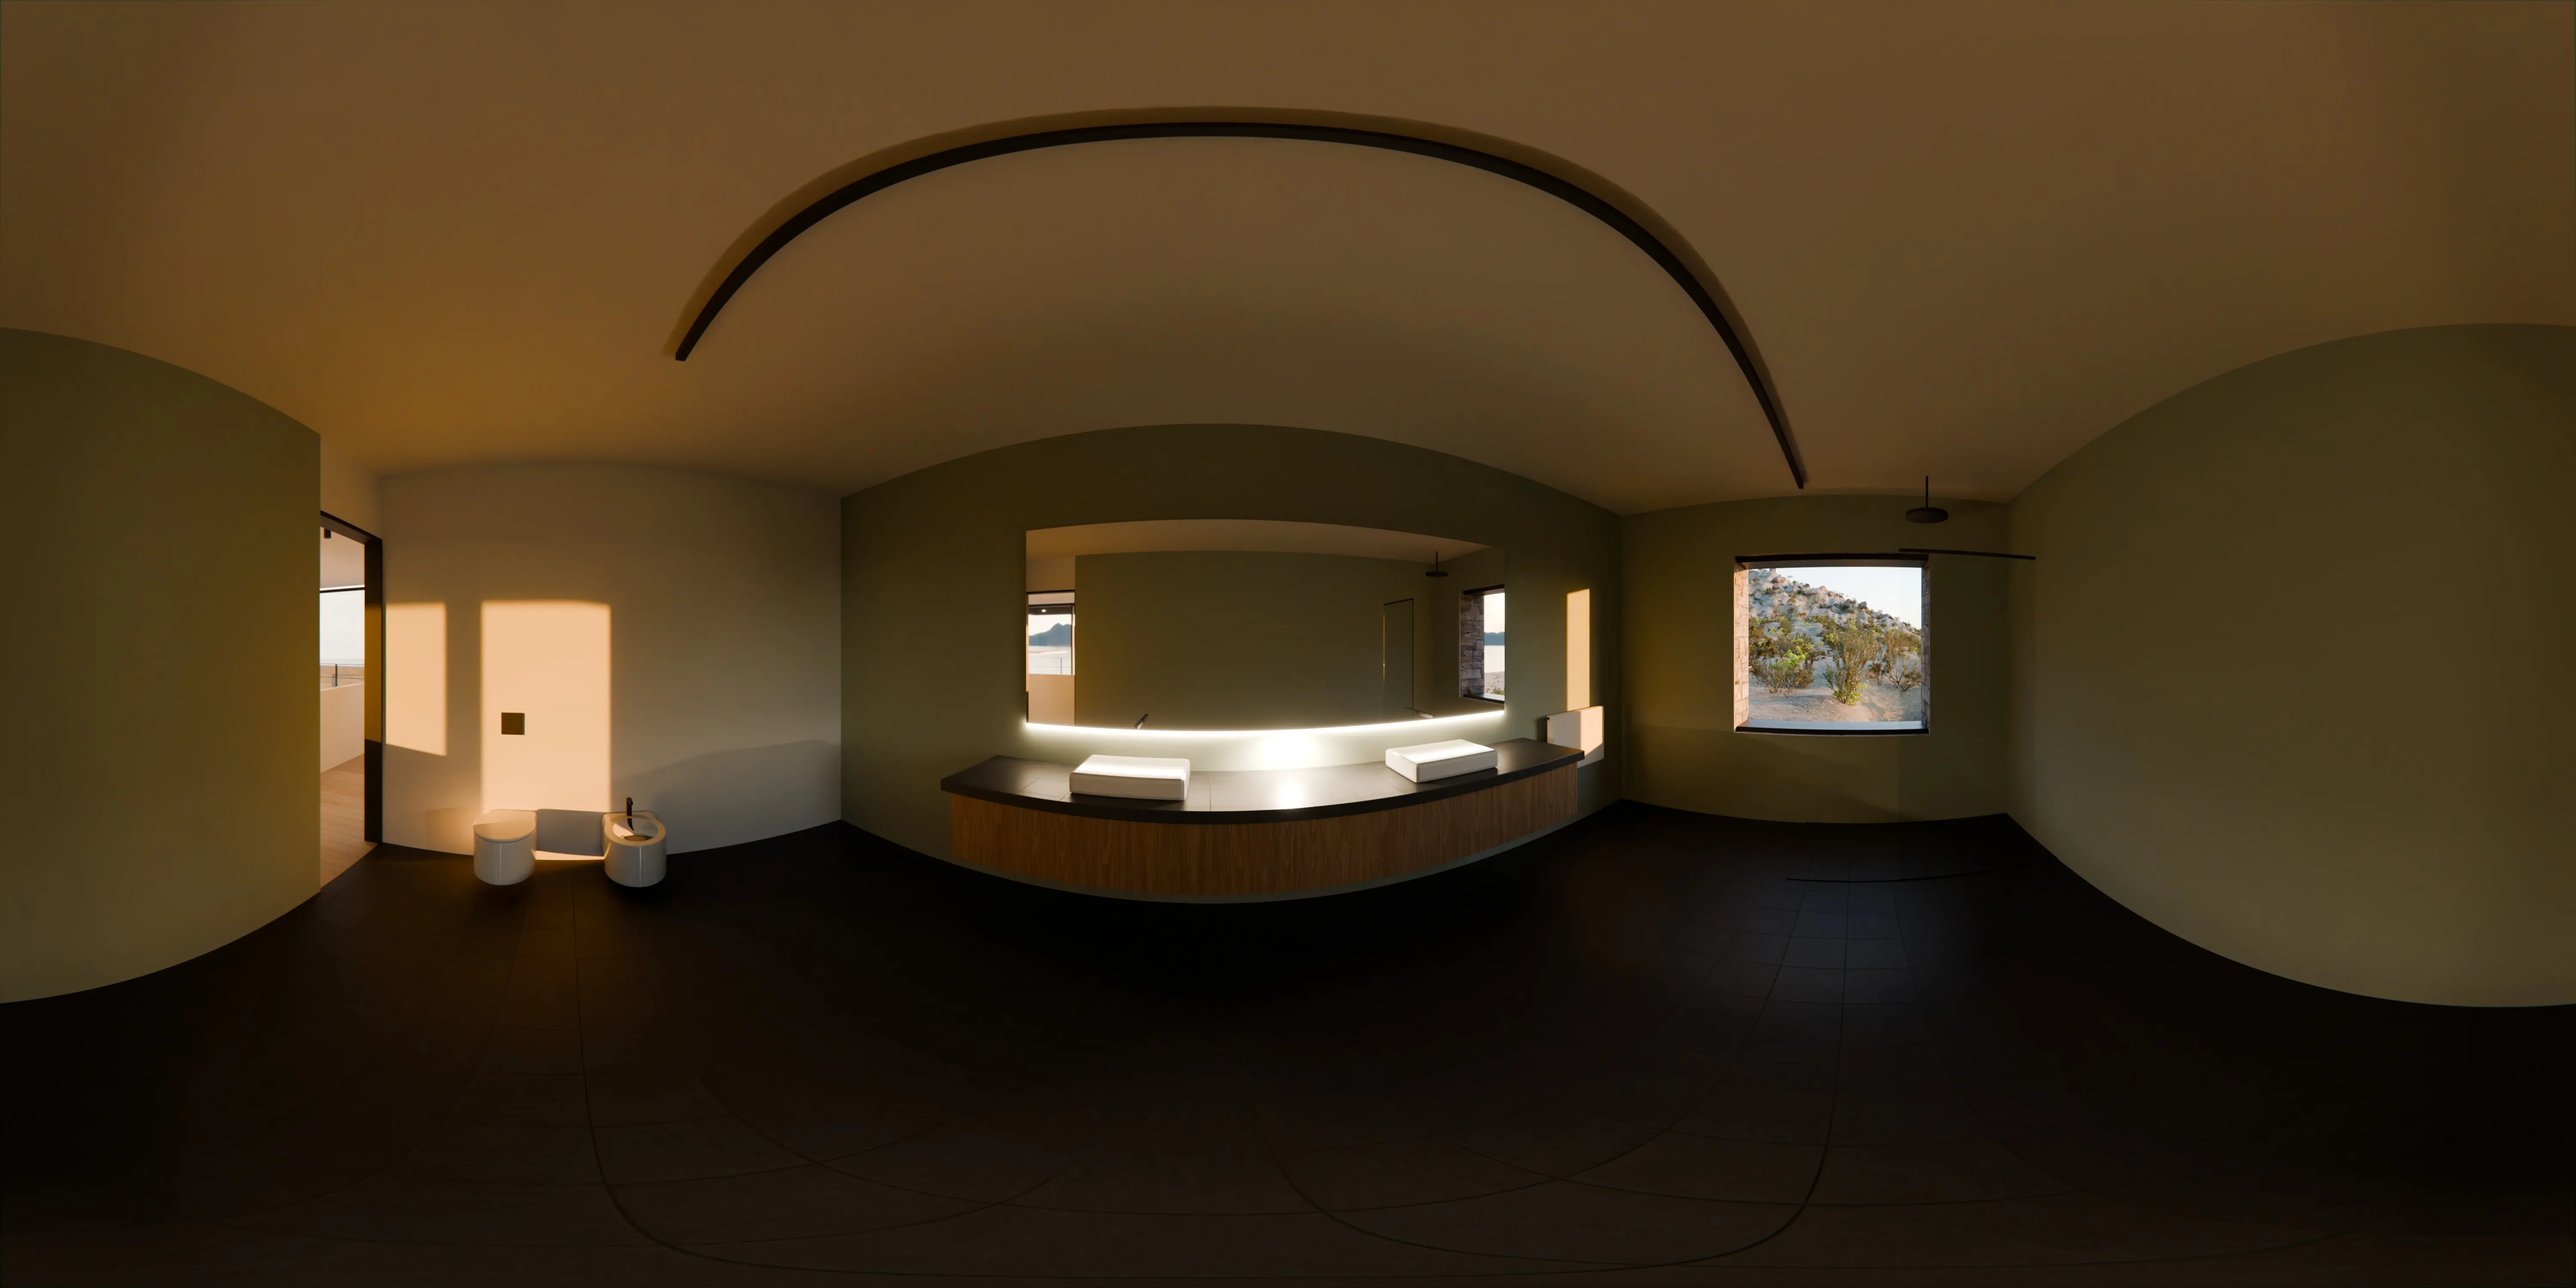
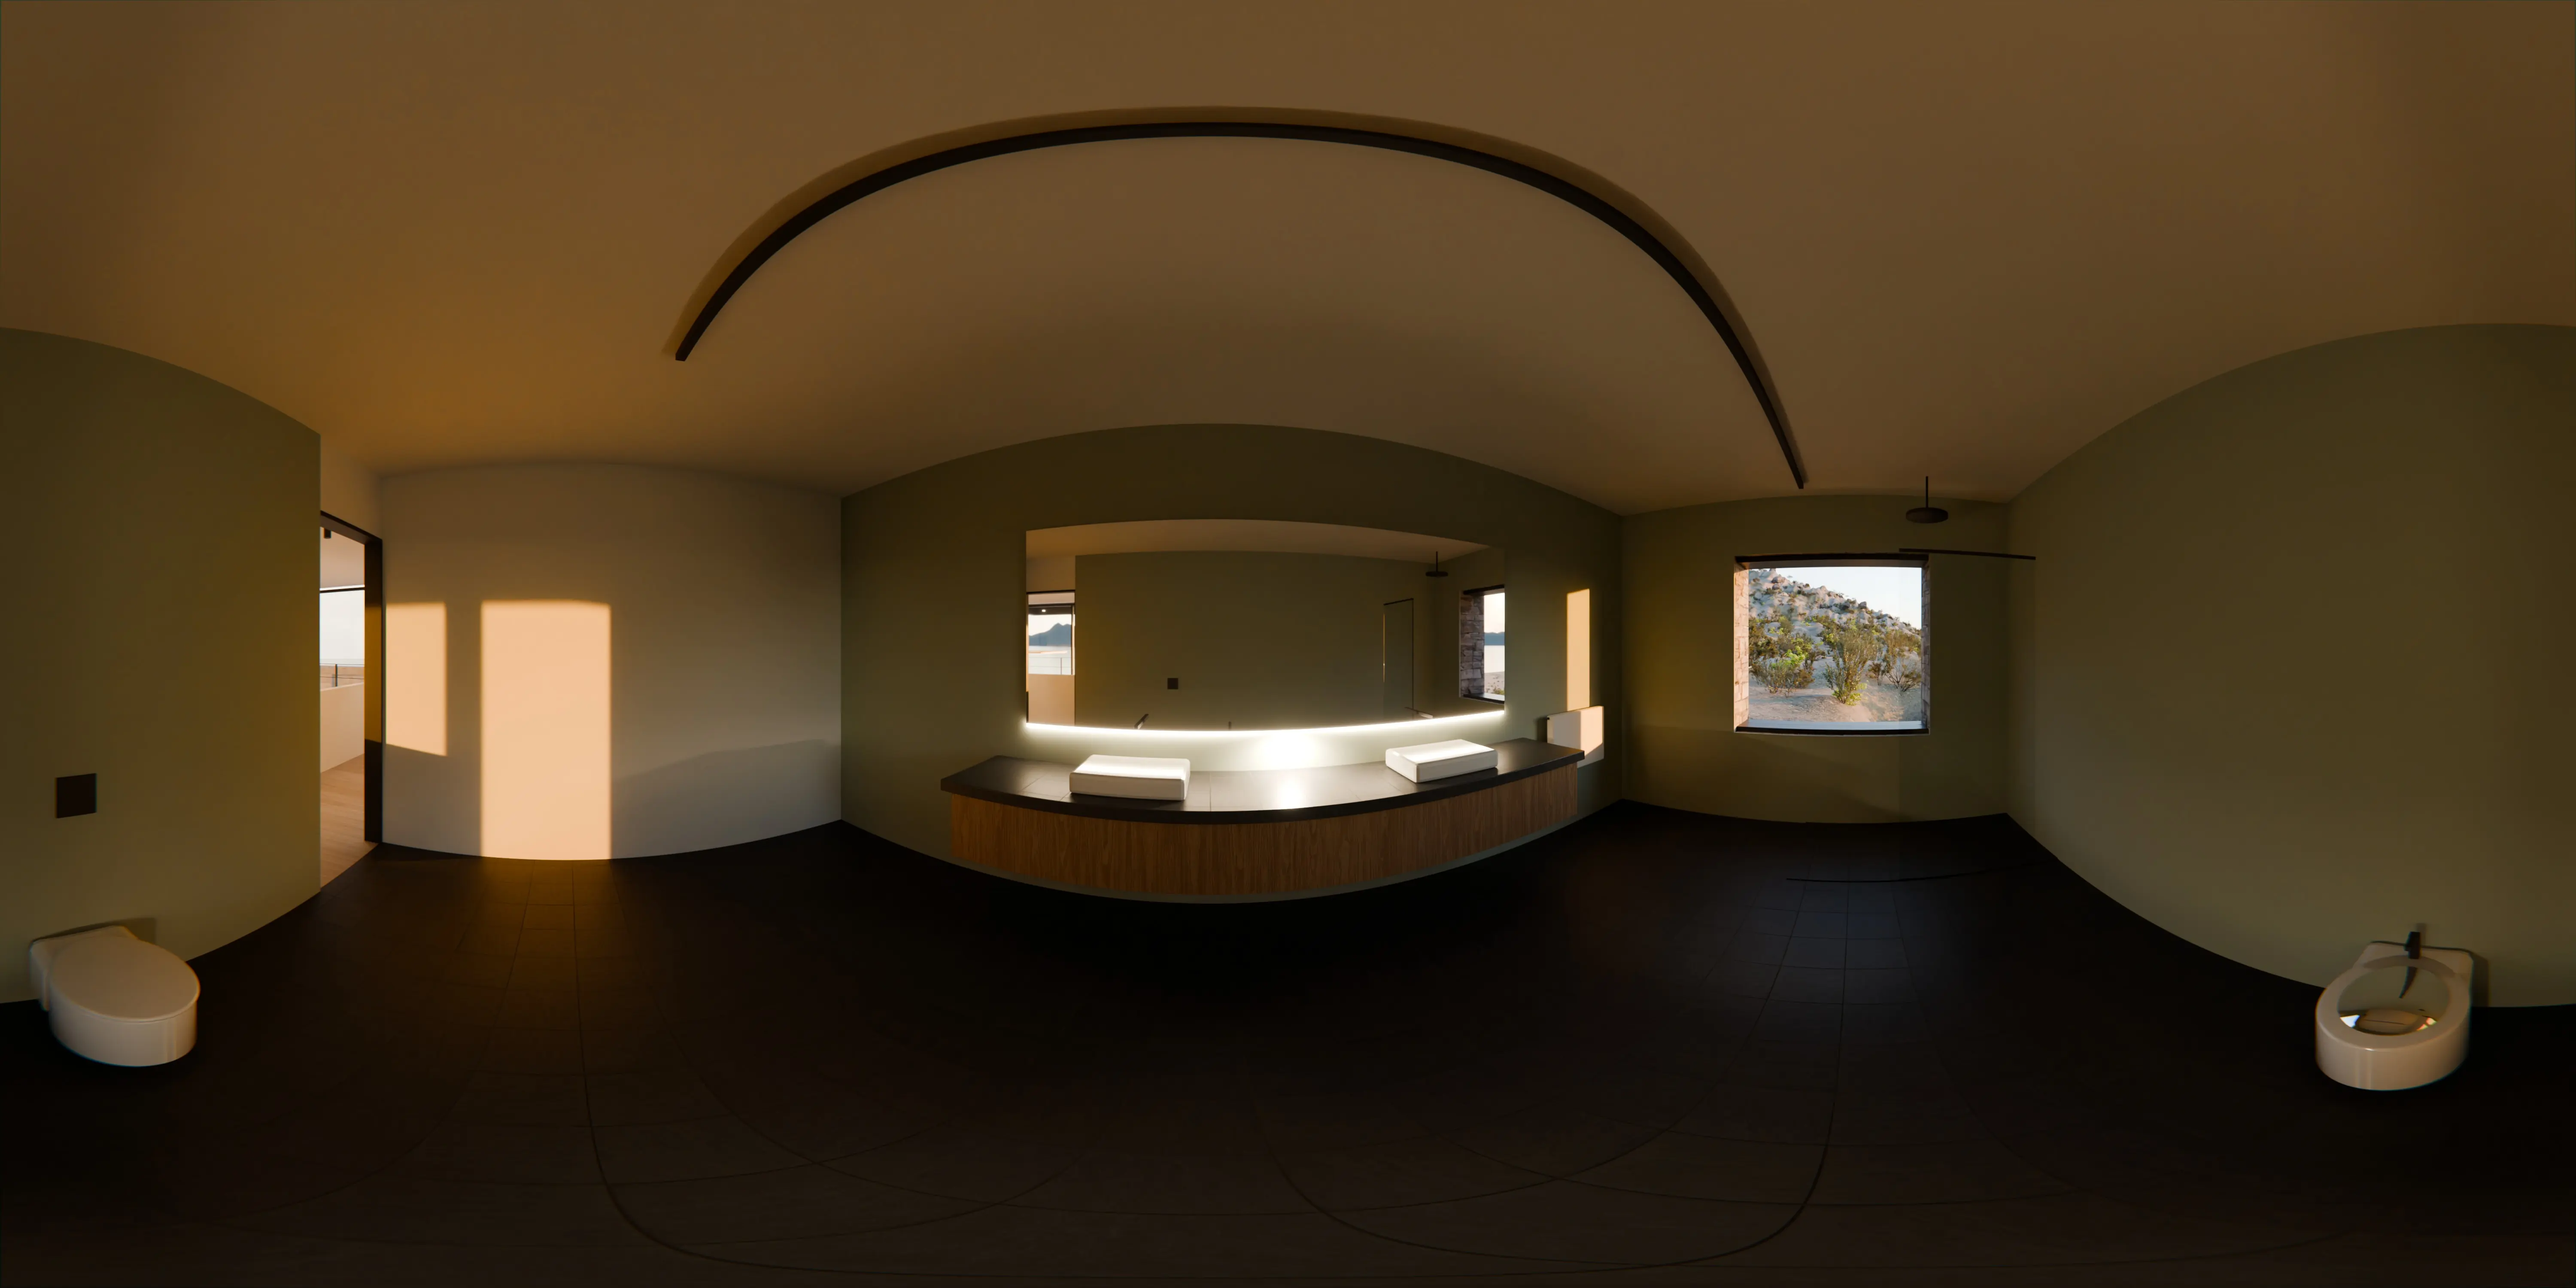
Render finali del bagno (sanitari di fronte ai lavabi) e delle sezioni; mappa nascosta all'arrivo
Claude-Session: https://claude.ai/code/session_01Ex56TigoRc5x3LjuWD8AzS

diff --git a/src/main.js b/src/main.js
@@ -215,7 +215,7 @@ function arrived(p) {
   state.visited.add(p.id);
   rooms.setActive(p.id);
   imap.setCurrent(p.id);
-  if (!imap.isOpen) gsap.to(imap.el, { autoAlpha: 0, duration: 0.3, overwrite: true });
+  if (!imap.isOpen) { gsap.killTweensOf(imap.el); gsap.set(imap.el, { autoAlpha: 0 }); imap.el.setAttribute('aria-hidden', 'true'); }
   btnInteriors.hidden = true;
   ambience.setIndoor(!OUTDOOR.has(p.id));
   setWhere(p);
